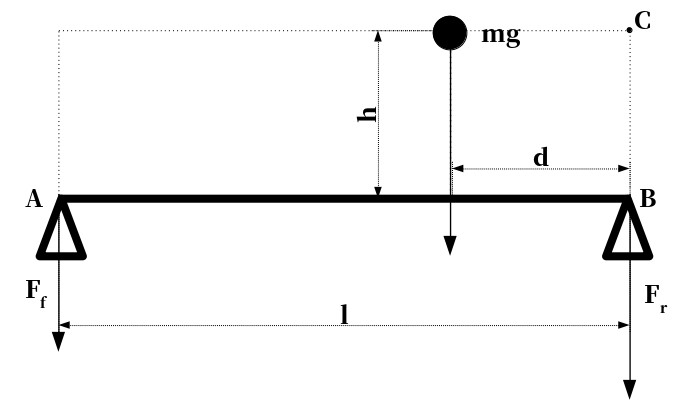
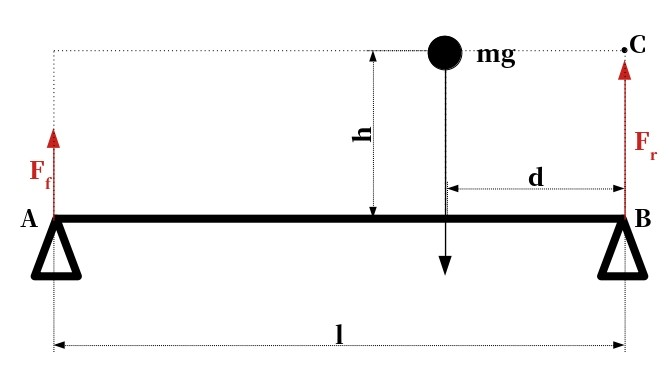
started real-life situations

diff --git a/extended_essay/extended.tex b/extended_essay/extended.tex
@@ -1,13 +1,15 @@
-\documentclass[12pt]{article}
+\documentclass[12pt, a4]{article}
 \usepackage{blindtext}
 \usepackage{graphicx}
 \usepackage{subcaption}
 \usepackage{float}
 
+\usepackage[margin=0.75in]{geometry}
 \graphicspath{{./images/}}
 
-\title{Finding the most efficient braking position for any bike\\
-	\large International Baccalaureate Extended Essay}
+\title{%
+Finding the best position of centre of mass of cyclist and bike for most efficient safe braking \\
+\large International Baccalureate Extended Essay}
 \author{Igor Krzywda}
 
 \begin{document}
@@ -17,7 +19,7 @@
 \subsection{Context}
 Braking is the most important safety feature on a bicycle, however when misused braking can be the cause of the
 most severe crashes one can have on a bicycle. Many of such crashes are caused by the lack of understanding of
-mechanics of braking a bicycle. There are countless tutorials as how to brake properly on a bicycle, but most of
+mechanics of braking a bicycle. There are countless tutorials on how to brake properly on a bicycle, but most of
 them are based on empirical experience of more proffesional riders. Such advice falls in line with physical 
 analysis, but is mostly biased by many factors spanning from the type of cycling the tutorial is based on to 
 the attitude towards crashing of the presenter. There is clearly a void in giving an objective advice on safety 
@@ -39,7 +41,7 @@ finding about it by crashing.
 \subsection{Rules and assumptions for the analysis}
 Assumptions about bicycle and rider:
 \begin{itemize}
-\item{rider with bicycle make one rigid body}
+\item{rider and bicycle make one rigid body}
 \item{there is no dissipation of force}
 \end{itemize}
 Safe braking in the analysis is defined by two factors:
@@ -55,7 +57,6 @@ considerations}:
 \item{air drag}
 \item{rolling resistance}
 \end{itemize}
-\newpage
 
 \subsection{Theoretical model of bicycle and cyclist}
 The model of bike and a rider for this analysis is two dimensional, because no lateral forces are taken in 
@@ -66,12 +67,12 @@ perpendicularly to the virtual beam. Figure~\ref{fig:theoretical_models} shows t
 \begin{figure}[h]
 \caption{}
 \centering
-\begin{subfigure}[b]{0.4\linewidth}
+\begin{subfigure}[b]{0.3\linewidth}
 \includegraphics[width=\linewidth]{bike_static_model_bike}%
 \label{fig:bike_diagram}
 \caption{}
 \end{subfigure}
-\begin{subfigure}[b]{0.4\linewidth}
+\begin{subfigure}[b]{0.3\linewidth}
 \includegraphics[width=\linewidth]{bike_static_model_simplified}
 \caption{}%
 \label{fig:beam_diagram}
@@ -79,21 +80,20 @@ perpendicularly to the virtual beam. Figure~\ref{fig:theoretical_models} shows t
 \label{fig:theoretical_models}
 \end{figure}
 
-\newpage
-
 \subsection{Force distribution on the axles}
 The force distribution on the axles is the most important part of the analysis, as it gives us data to 
 determine the deceleration and whether or not the conditions for safe braking are maintained.
+
+\subsubsection{Cyclist static or moving at constant speed}
 \begin{figure}[H]
-\caption{diagram for calculation of forces on axles}
+\centering
+\caption{}
 \includegraphics[width=\linewidth]{static_forces_simplified}%
 \label{fig:static_diagram}
 \end{figure}
-
-\subsubsection{Cyclist static or moving at constant speed}
 First let us consider the case of the cyclist being stationary or moving at a constant speed. In order to 
 calculate the forces on each axle, we need to consider moments of force applied to the frame, which will be
-our moment arm (fig.~\ref{fig:static_diagram}). When a cyclist is on the bike, the point on the frame, where
+our moment arm $l$ (fig.~\ref{fig:static_diagram}). When a cyclist is on the bike, the point on the frame, where
 the force is being excerted is right below his centre of mass. In order to calculate the either of the forces 
 on the axles, we need to equate internal torques to either point A or B in fig.~\ref{fig:static_diagram}: 
 \begin{equation}
@@ -101,8 +101,6 @@ on the axles, we need to equate internal torques to either point A or B in fig.~
 \label{eq:equating_torques}
 F_f \cdot l = mg \cdot d
 \end{equation}
-
-\newpage
 
 From this equation we can derive load on front axle (eq.~\ref{eq:F_f}). The net force on acting 
 on the bike is $mg$, therefore the load on rear axle will be described as in equation~\ref{eq:F_r}
@@ -120,24 +118,30 @@ F_r = mg - F_f
 \begin{figure}[H]
 \centering
 \caption{}
-\includegraphics[width=0.8\linewidth]{axles_static_graph}%
+\includegraphics[width=0.5\linewidth]{axles_static_graph}%
 \label{fig:static_graph}
 \end{figure}
-When we plot these equations as functions of the distance, (fig.~\ref{fig:static_graph}\footnote[1]{graph is 
-generated with parameters from the experiment}). The load on the front axle is a linear function with 
+When we plot these equations as functions of the distance, (fig.~\ref{fig:static_graph})\footnote[1]{graph is 
+generated with parameters from the experiment}. The load on the front axle is a linear function with 
 coefficient of $\frac{mg}{l}$, which means that the heavier the rider and bike, the steeper the graph.
 Same effect would have been making the bike shorter. The force on the rear axle is the inverse of front one.
 
 \subsubsection{Cyclist decelerating}
+\begin{figure}[H]
+\centering
+\caption{}
+\includegraphics[width=0.5\linewidth]{decelerating_forces_diagram}%
+\label{fig:deceleration_diagram}
+\end{figure}
 For this moment we will consider cyclist just decelerating neglecting what is happening to wheels, focusing
 our attention on axles just like in section above. When decelerating, aside from forces caused by the weight, 
 we also need to consider force coming from deceleration of the body. From second Newton's law we know that 
 $F = ma$, however we are considering our problem in terms of torque, so we need to find the lever arm this
 force is acting upon. As mentioned above we are assuming that bicycle and the rider are one rigid body. 
-Having assume that, we can say that the centre of mass of bike and rider is connected with a virtual lever
-connected at 90 degrees to our main moment arm, which is bike frame (fig.~\ref{fig:theoretical_models}
-\subref{fig:beam_diagram}). Just like before, we need to equate the moments, but in this case, we need to 
-equate them to point C, as we need to include vertical lever (fig.~\ref{fig:static_diagram}): 
+Having assumed that, we can say that the centre of mass of bike and rider is connected with a virtual lever
+connected at 90 degrees to our main moment arm, which is the bike frame. Just like before, we need to equate 
+the moments, but in this case, we need to equate them to point C, as we need to include vertical lever 
+(fig.~\ref{fig:deceleration_diagram}): 
 \begin{equation}
 \centering%
 \label{eq:eq_torques_dyn}
@@ -153,7 +157,7 @@ In this case, however, it is possible for forces to be negative (fig~\ref{fig:dy
 \begin{figure}[H]
 \centering
 \caption{}
-\includegraphics[width=0.8\linewidth]{axles_dynamic_graph}%
+\includegraphics[width=0.6\linewidth]{axles_dynamic_graph}%
 \label{fig:dynamic_graph}
 \end{figure}
 
@@ -180,8 +184,8 @@ that by equating torques to that point like so:
 \label{eq:F_bw}
 F_b \cdot r_b = F_{bw} \cdot r_w
 \end{equation}
-Therefore, from equations~\ref{eq:F_ms} and~\ref{eq:F_bw} we can that in order to brake and not skid the following
-condition must be met:
+Therefore, from equations~\ref{eq:F_ms} and~\ref{eq:F_bw} we can see that in order to brake and not skid the 
+following condition must be met:
 \begin{equation}
 \centering%
 \label{eq:braking_final_eq}
@@ -199,7 +203,7 @@ skidding because of the gap between static and dynamic friction coefficient.
 \caption{}
 \centering%
 \label{fig:angular_acceleration_figure}
-\includegraphics[width=0.8\linewidth]{angular_acceleration_diagram}%
+\includegraphics[width=0.5\linewidth]{angular_acceleration_diagram}%
 \end{figure}
 The more dangerous threat when braking is angular acceleration of the whole bike around the front axle resulting
 in rear wheel getting into the air. In order for that to happen, there must be a vector of force pointing upwards
@@ -231,5 +235,31 @@ we have to prevent what is widely known as going over the bars.
 \includegraphics[width=0.8\linewidth]{angular_acceleration}%
 \end{figure}
 
-
+\section{Applying the theoretical model to safety on the bicycle}
+When riding a bicycle, our safety is in majority dependent on our skill level rather than on the bicycle itself, 
+but knowing the physics standing behind our safety on the bike, we can both increas our safety on the saddle,
+as well as even before we choose our machine.
+\subsection{Bikefitting}
+Bikefitting is a whole industry centered around, as the name suggests, fitting bikes to a person. There are
+dedicated businesses as well as calculators, but since there is the issue of relying on experience of a 
+proffesional rider and because the calculators are proprietary software, we are unable to understand why we get
+the particular frame. Of course bikefitting is much, much broader than just setting up the bike for braking, as there
+are different disciplines and types of riding, but in this example we are assuming that we want to optimize our bike
+for maximum safety while braking. \\
+\begin{figure}[H]
+\centering 
+\begin{subfigure}[b]{0.45\linewidth}
+\includegraphics[width=\linewidth]{trek_fx_sport_4}%
+\label{fig:trek_fx_sport_4_pic}
+\caption{}
+\end{subfigure}
+\begin{subfigure}[b]{0.45\linewidth}
+\includegraphics[width=\linewidth]{trek_fx_sport_4_geo}%
+\label{fig:trek_fx_sport_4_geo}
+\caption{}
+\end{subfigure}
+\end{figure}
+As an example, we will compare two same bikes, but with different sizes. In each case we are assuming that the 
+rider's centre of mass will be in the same height and that he is decelerating at $-3\frac{m}{s^2}$. The bike used 
+for our demonstration is TREK FX Sport 4 (fig.~\ref{fig:trek_fx_sport_4}), which is a fully rigid fitness bicycle.
 \end{document}
